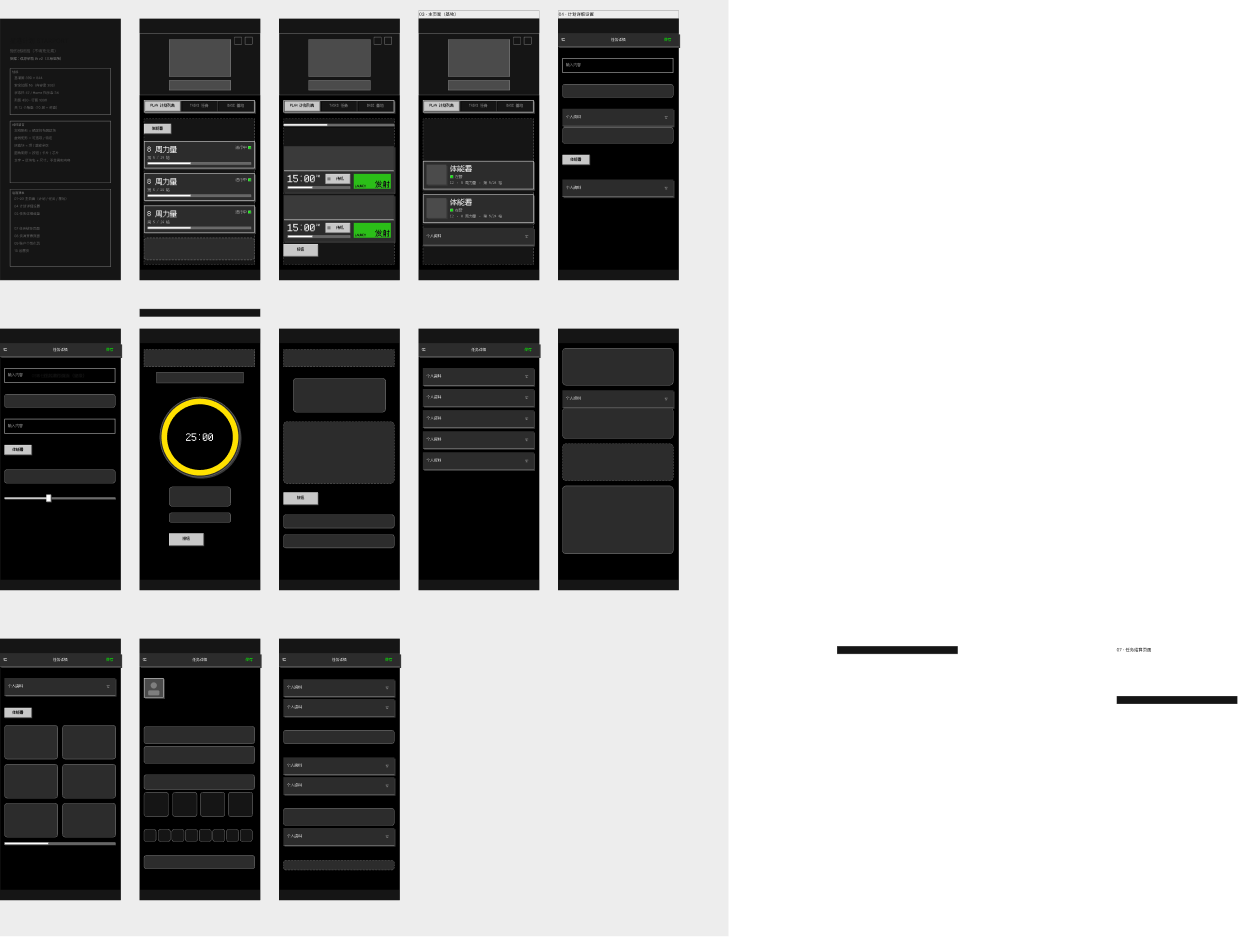
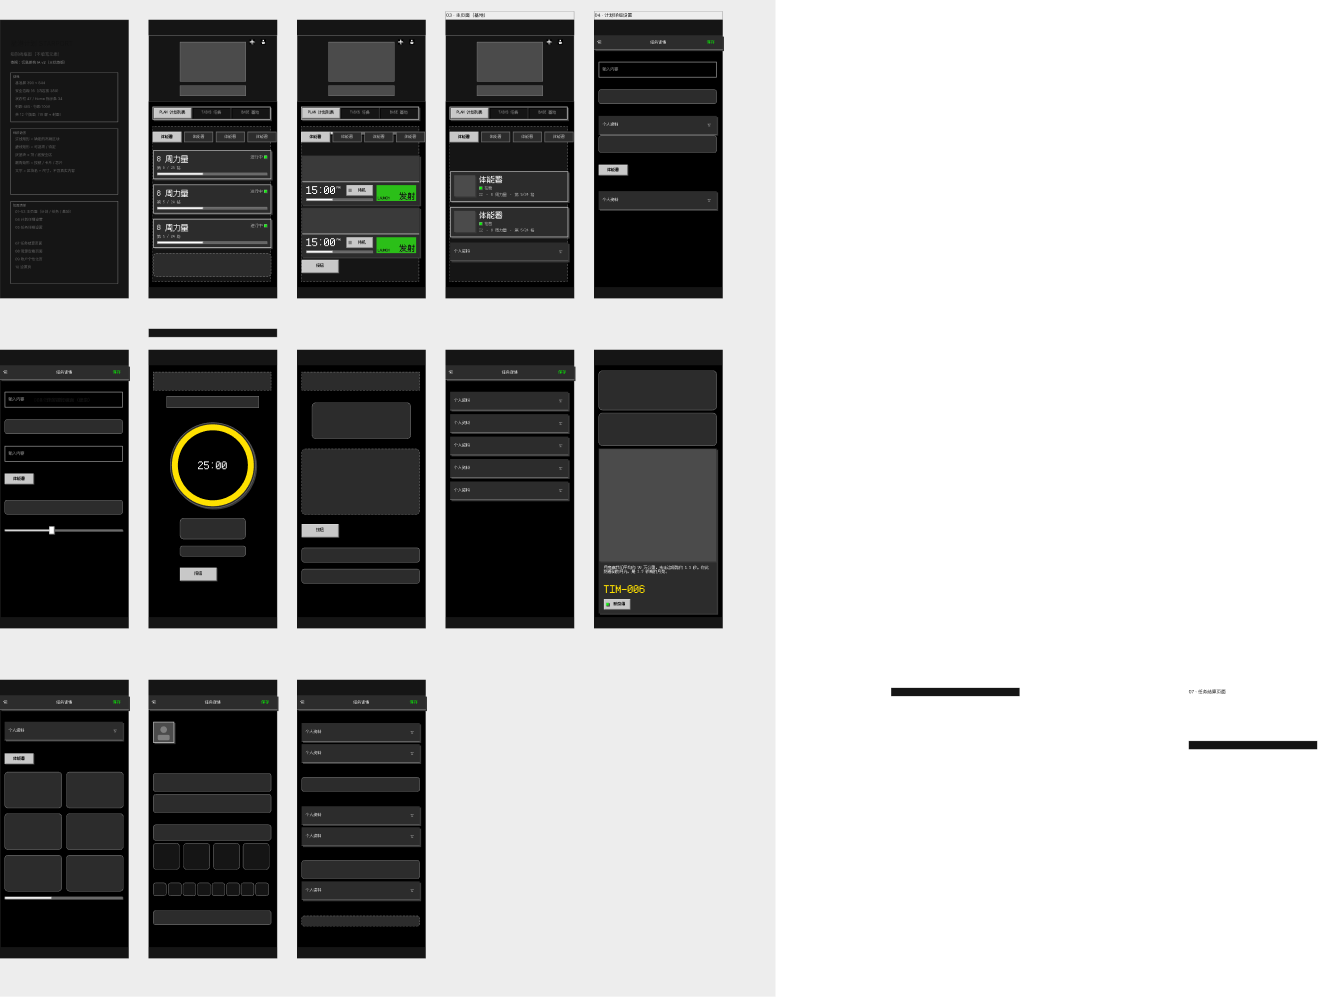
feat(星港计划): 高保真稿直接改 —— 图标/筛选列表/知识卡，并建立运行记录
工作方式变更（用户要求）：停止写生成脚本。改写一次布局的生成器比直接改还慢，
且人机协作阶段每轮都在变。改为每轮直接读+改，并当轮写进 14 号运行记录。

本轮 Fgma 改动（画板 940:3856）
1. 去掉「设施阵列缩略 358×104」——该状态改为放进顶部星球视窗的变体里。
   原线框 842:393 与手摆板 874:6 已同步删除。
2. 主内容区左移 2px（x 14→12），补偿阴影造成的视觉不对称。
3. 设置/账户的空 24×24 框 → 模板/Icon/Glyph（gear @306,59 / user @340,59），
   01/02/03 三屏各一组。
4. 01/02/03 筛选芯片 → 模板/筛选列表/横向滚动，每屏 4 个（on=true + 3×false），
   x = 12/108/204/300。
5. 屏 07 补真实知识卡（模板/Card/Knowledge state=new，358×500）@(14,299)；
   重排为 判定区 y63 → 收益区 y191 → 知识卡 y299。
6. 删除 110 个「xxx 358×N」占位说明文字；保留 30 个（封面规格/线框语言/
   版面清单/各屏标题）。
7. Seg/Bar 实例宽 371→358 压平；筛选芯片起点对齐 12。

过程中的失误与修复
- 第一次批量删文字用了过宽的正则，把 7 个屏标题也删了。已重建
  01/02/05/06A/06B/06C/07 的标题文字。
- 教训：删之前先分类打印并计数，保留名单要显式枚举。

最终：63 个组件实例 / 113 个文字 / 318 帧。

新增 14-高保真预览-运行记录.md：变更日志 + 26 个组件集清单 + 待办 + 踩坑速查
（用户明确要求把每轮结果同步到快捷的记录位置，避免拖慢速度）

diff --git a/星港计划-星际探索任务APP/14-高保真预览-运行记录.md b/星港计划-星际探索任务APP/14-高保真预览-运行记录.md
@@ -1,0 +1,92 @@
+# 14 · 高保真预览 · 运行记录
+
+> 用途：记录每轮对 Figma 高保真稿的直接修改（人机协作，不再写生成脚本）。
+> 画板：**`高保真预览`（`940:3856`）**，位于画布 (10500, 0)，13 屏。
+> 源：线框稿 `842:393`（未改动）。
+
+---
+
+## 工作方式（2026-10-23 起）
+
+**不再写生成脚本。** 每轮：
+1. 用 `figma_run` 原语直接读（`node tree` / `inspect`）→ 直接改（`node set` / `component instantiate` / `style apply`）
+2. 当轮把改动写进本文件
+3. 大批量时仍可用通用 job runner（`_drive.mjs` 吃 JSON `calls`），**但不写针对单次布局的生成器**
+
+---
+
+## 第 1 轮（10-23 上午）
+
+| # | 修改 | 说明 |
+|---|---|---|
+| 1 | 去掉「设施阵列缩略 358×104」 | 该状态改为放进顶部星球视窗的**变体**里。已从原线框 `842:393`、手摆板 `874:6` 同步删除 |
+| 2 | 主内容区左移 2px | 阴影造成视觉不对称需补偿。`x 14 → 12` |
+| 3 | 补 `设置` / `账户` 为图标组件 | 原 24×24 空框替换为 `模板/Icon/Glyph`：`name=gear` @ (306,59)、`name=user` @ (340,59)，三屏各一组 |
+| 4 | 01/02/03 的筛选芯片换 `模板/筛选列表/横向滚动` | 每屏 4 个（`on=true` + 3×`on=false`），x = 12/108/204/300，y=339 |
+| 5 | 补屏 07 知识卡 | `模板/Card/Knowledge`（`state=new`，358×500）@ (14,299) |
+| 6 | 屏 07 重排 | 判定区 y63 → 收益区 y191 → 知识卡 y299；删除「扰动 roll 区」「知识卡区占位」 |
+| 7 | 删除占位说明文字 | 110 个「xxx 358×N」类说明已删；**保留** 30 个（封面规格/线框语言/版面清单/各屏标题） |
+| 8 | 修屏标题 | 误删后重建 7 个屏标题（`01/02/05/06A/06B/06C/07`） |
+
+### 最终统计
+
+- 组件实例 **63**
+- 文字 **113**（原 140，删除 110 占位说明后重建了 7 个屏标题 + 保留 30 个说明）
+- 帧 **318**
+
+---
+
+## 组件资产（当前可用的 26 个组件集）
+
+| 组件集 | 变体 | 用途 |
+|---|---|---|
+| `模板/Bar/Status` | 2 | ~~手机状态栏~~ **已弃用**（属系统层，不再套用） |
+| `模板/Bar/Nav` | 3 | 二级页导航栏 |
+| `模板/Seg/Bar` | 3 | 主页面横向分段 |
+| `模板/筛选列表/横向滚动` | 4 | **筛选芯片行**（on=true 选中 / false 未选） |
+| `模板/Chip/Filter` | 2 | 单片筛选（已被筛选列表取代，保留） |
+| `模板/Chip/Status` | 4 | 状态芯片 |
+| `模板/Ctrl/Toggle` `Ctrl/Check` `Ctrl/Slider` | 2+2+2 | 开关·勾选·滑杆 |
+| `模板/Btn/Action` | 10 | 动作按钮 |
+| `模板/Btn/Status` | 2 | 发射/终止按钮 |
+| `模板/Icon/Btn` | 3 | 图标按钮 |
+| `模板/Icon/Glyph` | 12 | 像素字形（含 **gear / user**） |
+| `模板/Field/Input` | 4 | 输入框 |
+| `模板/Row/List` | 4 | 列表行 |
+| `模板/Card/Task` | 3 | 任务卡 |
+| `模板/Card/Program` | 3 | 计划卡 |
+| `模板/Card/Facility` | 4 | 设施卡 |
+| `模板/Card/Event` | 2 | 事件卡 |
+| `模板/Card/Knowledge` | 2 | **知识卡**（358×500） |
+| `模板/Block/Ring` | 3 | 环形进度 |
+| `模板/Bar/Progress` | 3 | 进度条 |
+| `模板/Panel/Dialog` | 2 | 弹层 |
+| `模板/Toast` | 3 | 轻提示 |
+| `模板/State/Page` | 2 | 空/错误态 |
+| `模板/Avatar` | 2 | 头像 |
+
+---
+
+## 已知待办
+
+| # | 项 | 说明 |
+|---|---|---|
+| 1 | 顶部星球视窗的**状态变体** | 用户要求把设施阵列状态放进顶部视图作为变体，尚未建 |
+| 2 | 屏 07 收益区 / 判定区 | 仍是线框占位框，未组件化 |
+| 3 | 屏 04/05/10 的「分段：xxx」 | 未换 `Seg/Bar`（文案与变体不匹配，需先定变体名） |
+| 4 | 屏 08 的「卡片 173×110」×6 | 集册格子，未组件化 |
+| 5 | 屏 09 的涂装/徽记方块 | 未组件化 |
+| 6 | `Seg/Bar` 实例宽 358 但内部变体 371 | 已用 `node set --width 358` 压平，**根治需改组件本身** |
+
+---
+
+## 踩坑（本轮）
+
+| 现象 | 正解 |
+|---|---|
+| 批量删文字时用宽松正则 → 屏标题也被删 | **删之前先分类打印并计数**，保留名单要显式枚举 |
+| `inspect` 的坐标在 `j.raw.x`，不是 `j.x` | 一律读 `raw` |
+| `component instantiate` 不能传 COMPONENT_SET | 必须传具体变体的 COMPONENT id |
+| `-x/-y` 是父级局部坐标 | 不要加屏原点 |
+| `node set --fill` 对部分色值回滚 | 用 `node bind`（`-c` 传集合**名称**）或 PAINT 样式 + `--field fill` |
+| 正则 `(\d+(?:\.\d+)?)` 的 `(?:...)` 不计数 | 组号要数清楚，解析后断言 |

diff --git a/星港计划-星际探索任务APP/README.md b/星港计划-星际探索任务APP/README.md
@@ -57,6 +57,7 @@
 | [11-任务主题与知识卡](11-任务主题与知识卡.md) | **主题 ↔ 卡片关联**：重复度估算（36 主题）、36 主题总表、13 个主题 × 6 张完整卡（含真实探索记录） | 策划 / 内容 |
 | [12-知识卡配图说明](12-知识卡配图说明.md) | **78 张知识卡配图**：像素风生成方式、色板锚点、尺寸与用法、重跑方法、已知限制 | 设计 / 美术 / 开发 |
 | [13-像素组件库规范](13-像素组件库规范.md) | **组件标准化**：33 个令牌、7 个组件集 / 26 变体、尺寸收敛对照、文字属性规则 | 设计 / 前端 |
+| [14-高保真预览-运行记录](14-高保真预览-运行记录.md) | **人机协作运行记录**：每轮直接改 Figma 的变更日志、组件资产清单、待办、踩坑 | 设计 / 开发 |
 
 ---
 
